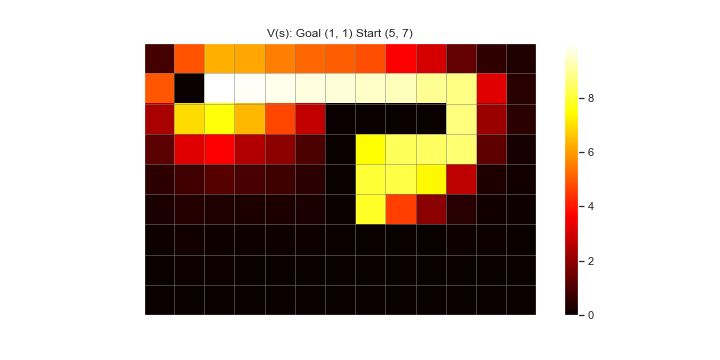
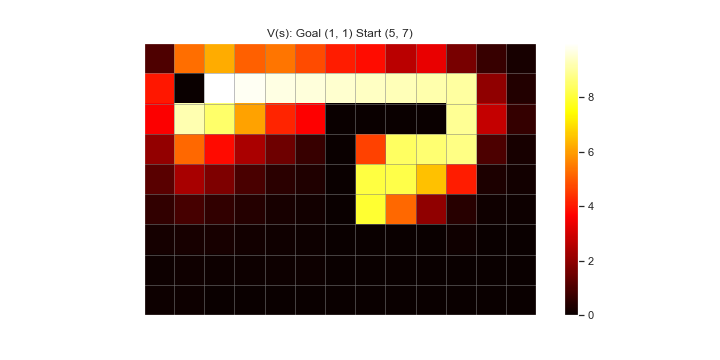
wip failing part-3

diff --git a/hw-5/sr-ac/sr_ac_template.py b/hw-5/sr-ac/sr_ac_template.py
@@ -260,12 +260,15 @@ def actor_critic(state_representation, n_steps,
                 # Compute action probabilities
                 action_probabilities = softmax(M[state_idx, :])
                 valid_actions = np.where(M[state_idx, :] > -np.inf)[0]
-                 
                 valid_probabilities = action_probabilities[valid_actions]
                 valid_probabilities /= valid_probabilities.sum()  # Normalize probabilities
-                chosen_action = np.random.choice(valid_actions, p=valid_probabilities)
+                if(np.isnan(valid_probabilities).any()) and len(valid_probabilities) > 0:
+                   chosen_action = np.random.choice(4)  
+                else:
+                    chosen_action = np.random.choice(valid_actions, p=valid_probabilities)
                 # Choose action according to action probabilities
-                # chosen_action = np.random.choice(4, p=action_probabilities)
+                #action_probabilities = np.nan_to_num(action_probabilities, nan=-np.inf, copy=False)
+                #chosen_action = np.random.choice(4, p=action_probabilities)
                 # take action
                 move = LEGAL_MOVES[chosen_action]
                 new_state = tuple(np.array(position_from_idx(state_idx, maze)) + np.array(move))
@@ -278,7 +281,7 @@ def actor_critic(state_representation, n_steps,
                     per_episode_counters["actions"] = per_episode_counters.get("actions", 0) + 1
         
             per_episode_counters["state_visit_counts"][state_idx] += 1 
-            
+            trajectory.append(new_state_idx)
             V_state = V_weights @ state_representation[state_idx]
             goal_reached = new_state == goal   
             # Compute the value of the new state, goal-state has value 0 
@@ -301,13 +304,17 @@ def actor_critic(state_representation, n_steps,
             if (i, j) == goal: 
                 episode_rewards[episode_idx] = I * reward # earned rewards for this episode
                 if update_sr: # Update the state representation
+                    #new_state_representation = np.copy(state_representation)
+                    trajectory = np.array(trajectory)
                     for idx, state_idx in enumerate(trajectory):
-                        assert check_legal(maze, position_from_idx(state_idx, maze)), \
-    f"Invalid state in trajectory: {position_from_idx(state_idx, maze)}"
+                        #assert check_legal(maze, position_from_idx(state_idx, maze)), \ f"Invalid state in trajectory: {position_from_idx(state_idx, maze)}"
+                        #print("state_idx", state_idx)
                         current_trajectory = trajectory[idx:]
                         state_representation[state_idx, :] = \
-                            learn_from_traj(state_representation[state_idx], 
+                            learn_from_traj(state_representation[state_idx,:], 
                                             current_trajectory, gamma, alpha)
+                    #state_representation[:] = new_state_representation
+                    
                 break # END EPISODE
             
             state_idx = new_state_idx 
@@ -315,12 +322,23 @@ def actor_critic(state_representation, n_steps,
         # Episode ended due to max steps 
         if step_idx == n_steps - 1 and not goal_reached: 
             episode_rewards[episode_idx] = 0
+            if update_sr: # Update the state representation
+                #new_state_representation = np.copy(state_representation)
+                trajectory = np.array(trajectory)
+                for idx, state_idx in enumerate(trajectory):
+                    #print("state_idx", state_idx)
+                    #assert check_legal(maze, position_from_idx(state_idx, maze)), \ f"Invalid state in trajectory: {position_from_idx(state_idx, maze)}"
+                    current_trajectory = trajectory[idx:]
+                    state_representation[state_idx, :] = \
+                        learn_from_traj(state_representation[state_idx,:], 
+                                        current_trajectory, gamma, alpha)
+                #state_representation[:] = new_state_representation
+ 
     # Reward only for reaching the goal, thus episode reward is 
     # same as Discounted last step reward.
     perf_counters["episode_counters"] = episode_counters
     #print(perf_counters)
     return M, V_weights, episode_rewards
-
 
 #%%
 # One part to the solution of exercise part 3, if you want to update the 
@@ -334,7 +352,11 @@ def learn_from_traj(succ_repr, trajectory, gamma=0.98, alpha=0.05):
     observed = np.zeros_like(succ_repr)
     for i, state in enumerate(trajectory):
         observed[state] += gamma ** i
-    succ_repr += alpha * (observed - succ_repr)
+    delta =  observed - succ_repr
+    #print(f"successor: {succ_repr}, observed: {observed}, delta:{delta}")
+    if np.sum(np.abs(delta)) >0 : 
+        print("non-zero-delta: ", np.sum(np.abs(delta)))
+    succ_repr += alpha * delta 
     # Return the updated successor representation
     return succ_repr
 
@@ -426,7 +448,8 @@ M, V, earned_rewards = actor_critic(learning_sr,
                                         alpha, 
                                         gamma, 
                                         n_episodes,
-                                        update_sr=True, start_func=start_func)
+                                        update_sr=True, 
+                                        start_func=start_func)
 part_3_random_start_sr = earned_rewards
 
 #%%
@@ -440,9 +463,9 @@ plt.show()
 #%%
 plt.figure(figsize=(10, 5))
 plt.plot(earned_rewards)
-plt.plot(gaussian_filter(earned_rewards, 50), label='random-start-sr')
-plt.plot(gaussian_filter(part_2_sr_random_policy_earned_rewards, 50),label='fixed-start-sr')
-plt.plot(gaussian_filter(part_1_one_hot_earned_rewards, 50), label='fixed-start-1-hot')
+plt.plot(gaussian_filter(earned_rewards, 10), label='random-start-sr')
+plt.plot(gaussian_filter(part_2_sr_random_policy_earned_rewards, 10),label='fixed-start-sr')
+plt.plot(gaussian_filter(part_1_one_hot_earned_rewards, 10), label='fixed-start-1-hot')
 plt.legend()
 plt.savefig(f"{IMAGE_PATH}/earned_rewards-part-3.png")
 plt.show()
@@ -452,7 +475,6 @@ plt.hist(V,  bins=np.arange(maze.size + 1) - 0.5)
 
 #%%
 # Plot the SR of some states after this learning, also anything else you want.
-# TODO:- # Part 4
 #%% Plot the SR 
 plt.plot(learning_sr[0, :])
 plt.plot(learning_sr[1, :])
@@ -463,14 +485,18 @@ plt.colorbar()
 plt.savefig("sr-part-4.png")
 
 
+original_random_walk_sr = np.copy(random_walk_sr(transitions, 0.8).T)
 #%%
 for state_idx in range(maze.size):
     if check_legal(maze, position_from_idx(state_idx, maze)):
         plt.figure()
+        delta = learning_sr[state_idx, :].reshape(maze.shape) - original_random_walk_sr[state_idx, :].reshape(maze.shape)
+        total_error = np.sum(np.square(delta))
         plt.imshow(learning_sr[state_idx, :].reshape(maze.shape), cmap='hot')
-        plt.title(f"SR for state {position_from_idx(state_idx,maze)}, goal at {goal}")
+        #plt.imshow(delta, cmap='hot')
+        plt.title(f"SR for state {position_from_idx(state_idx,maze)} Error:{total_error:.2f}")
         plt.colorbar()
-        plt.savefig(f"sr-state-{state_idx}-part-4.png")
+        plt.savefig(f"{IMAGE_PATH}/sr-state-{state_idx}-part-4.png")
         plt.show()
 
 # TODO: Ornsen-uhlenbeck Exploration Based Values
